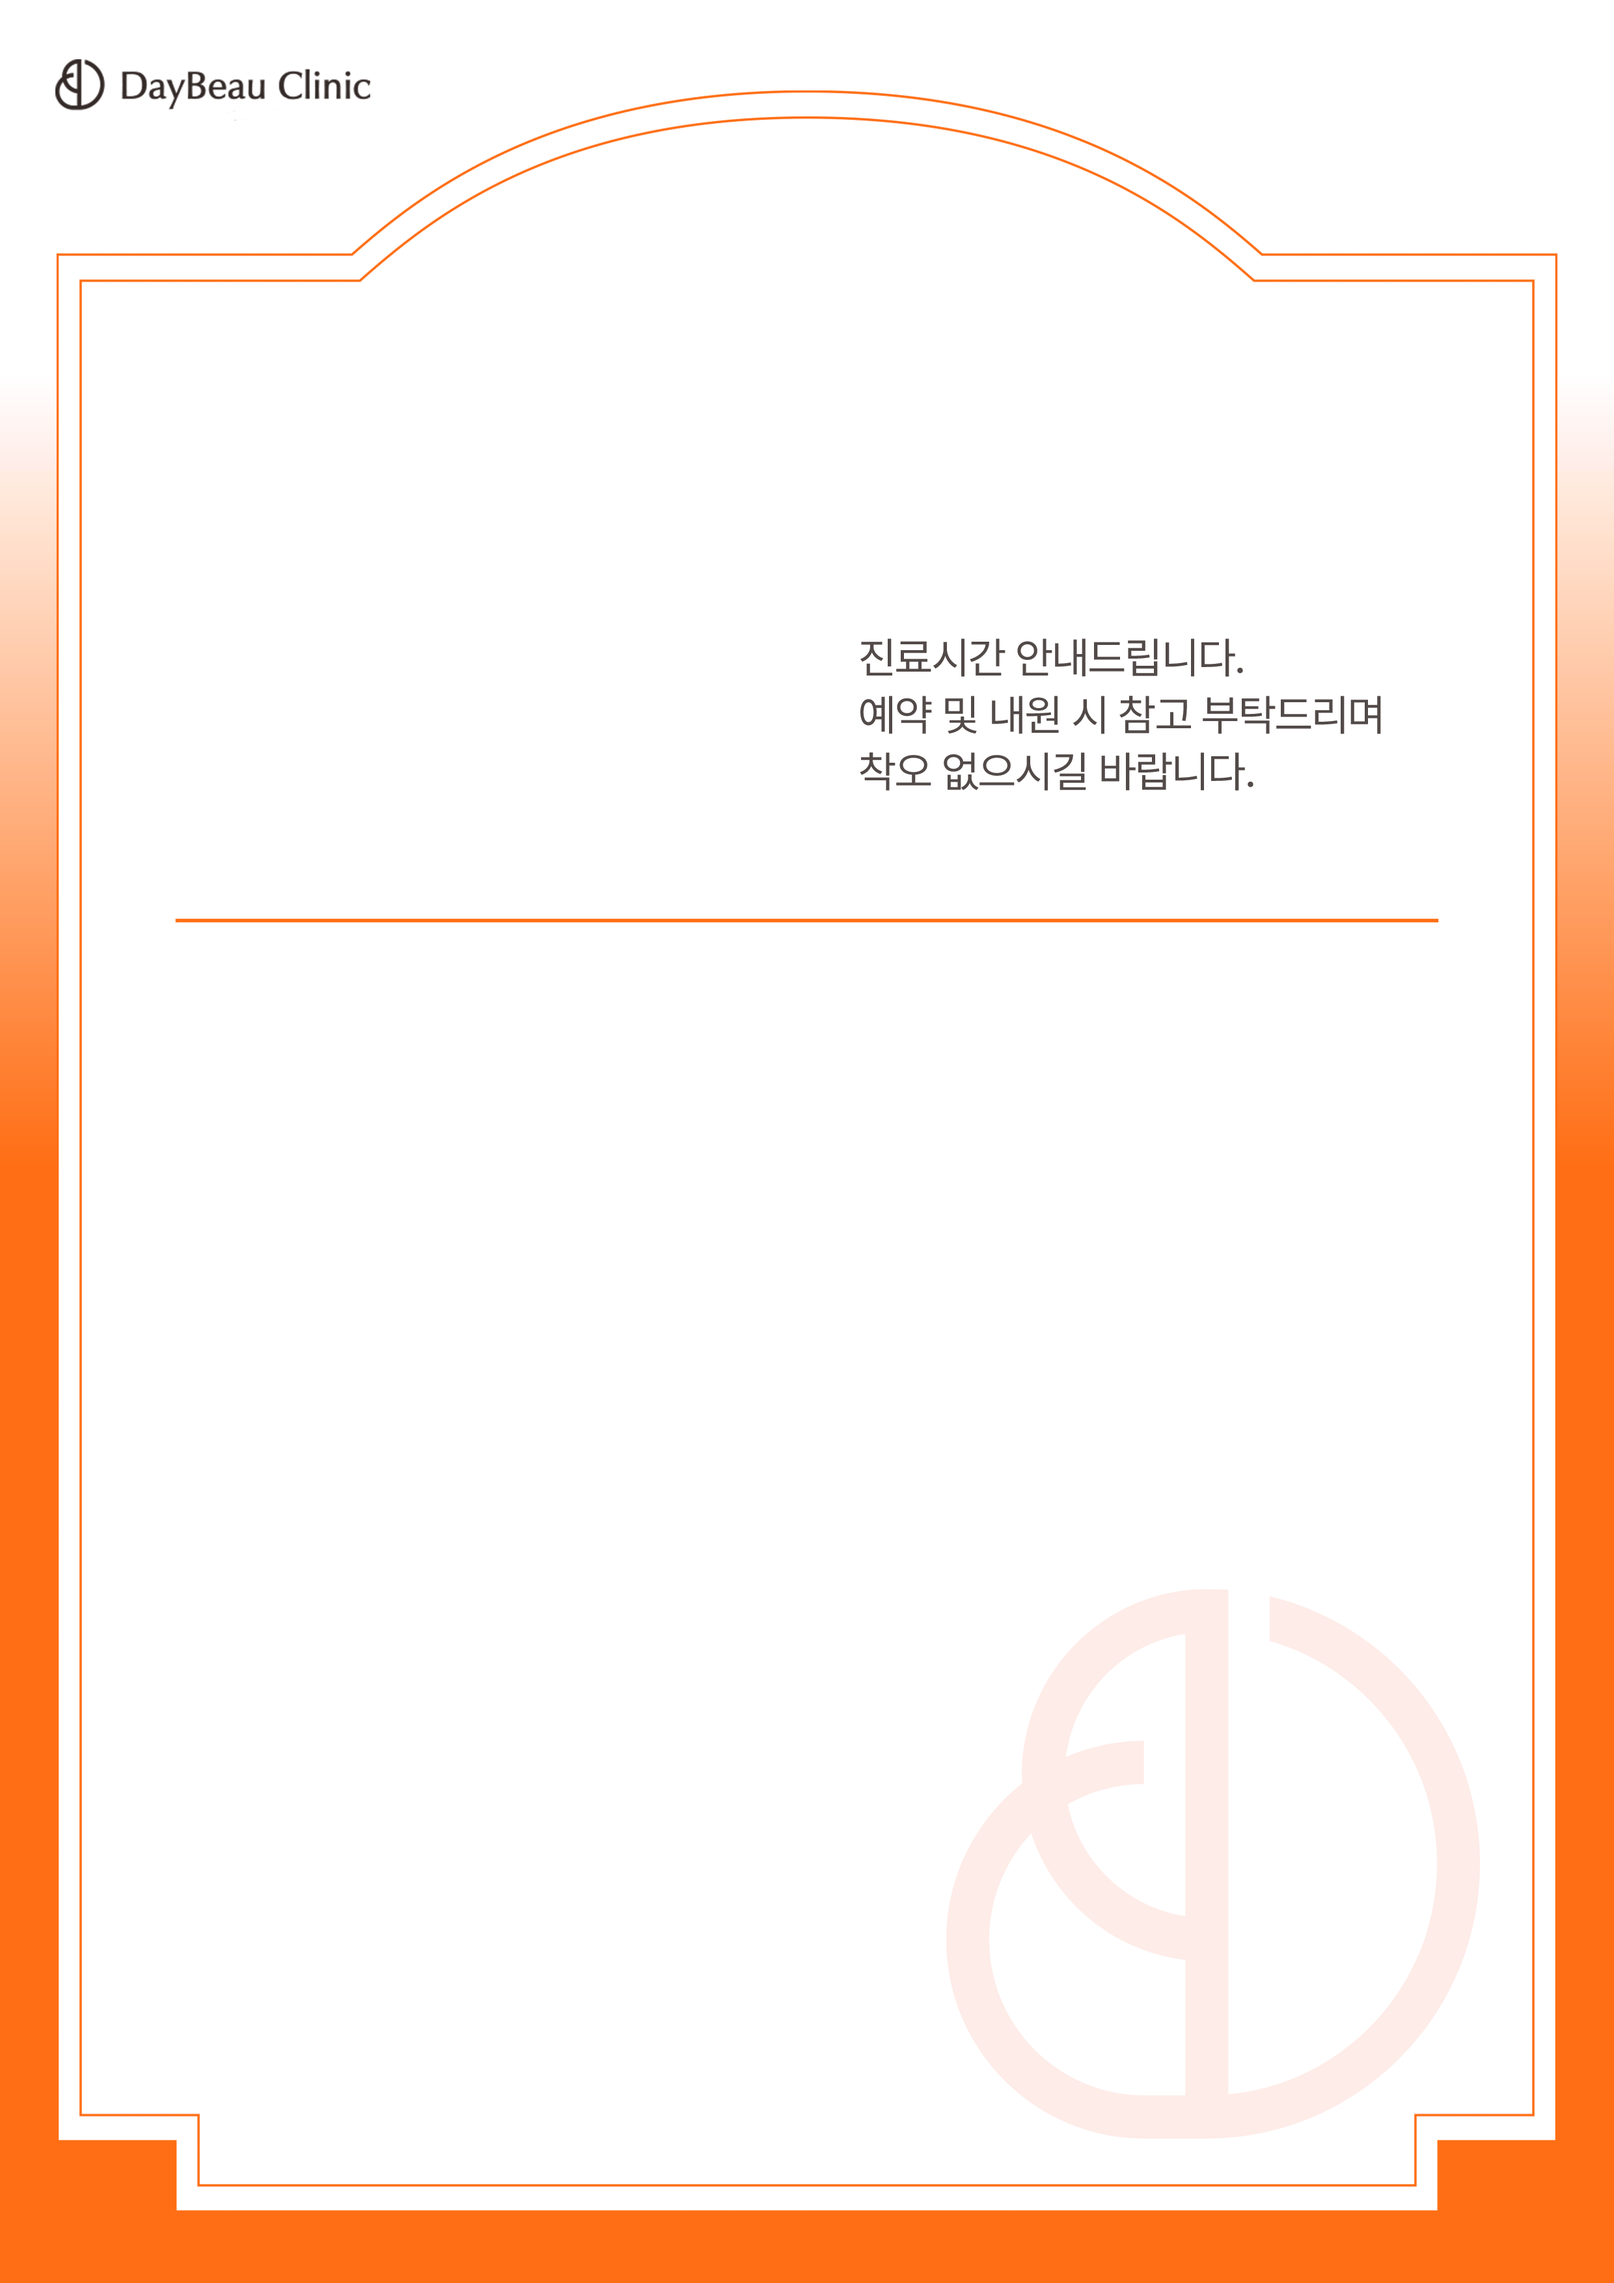
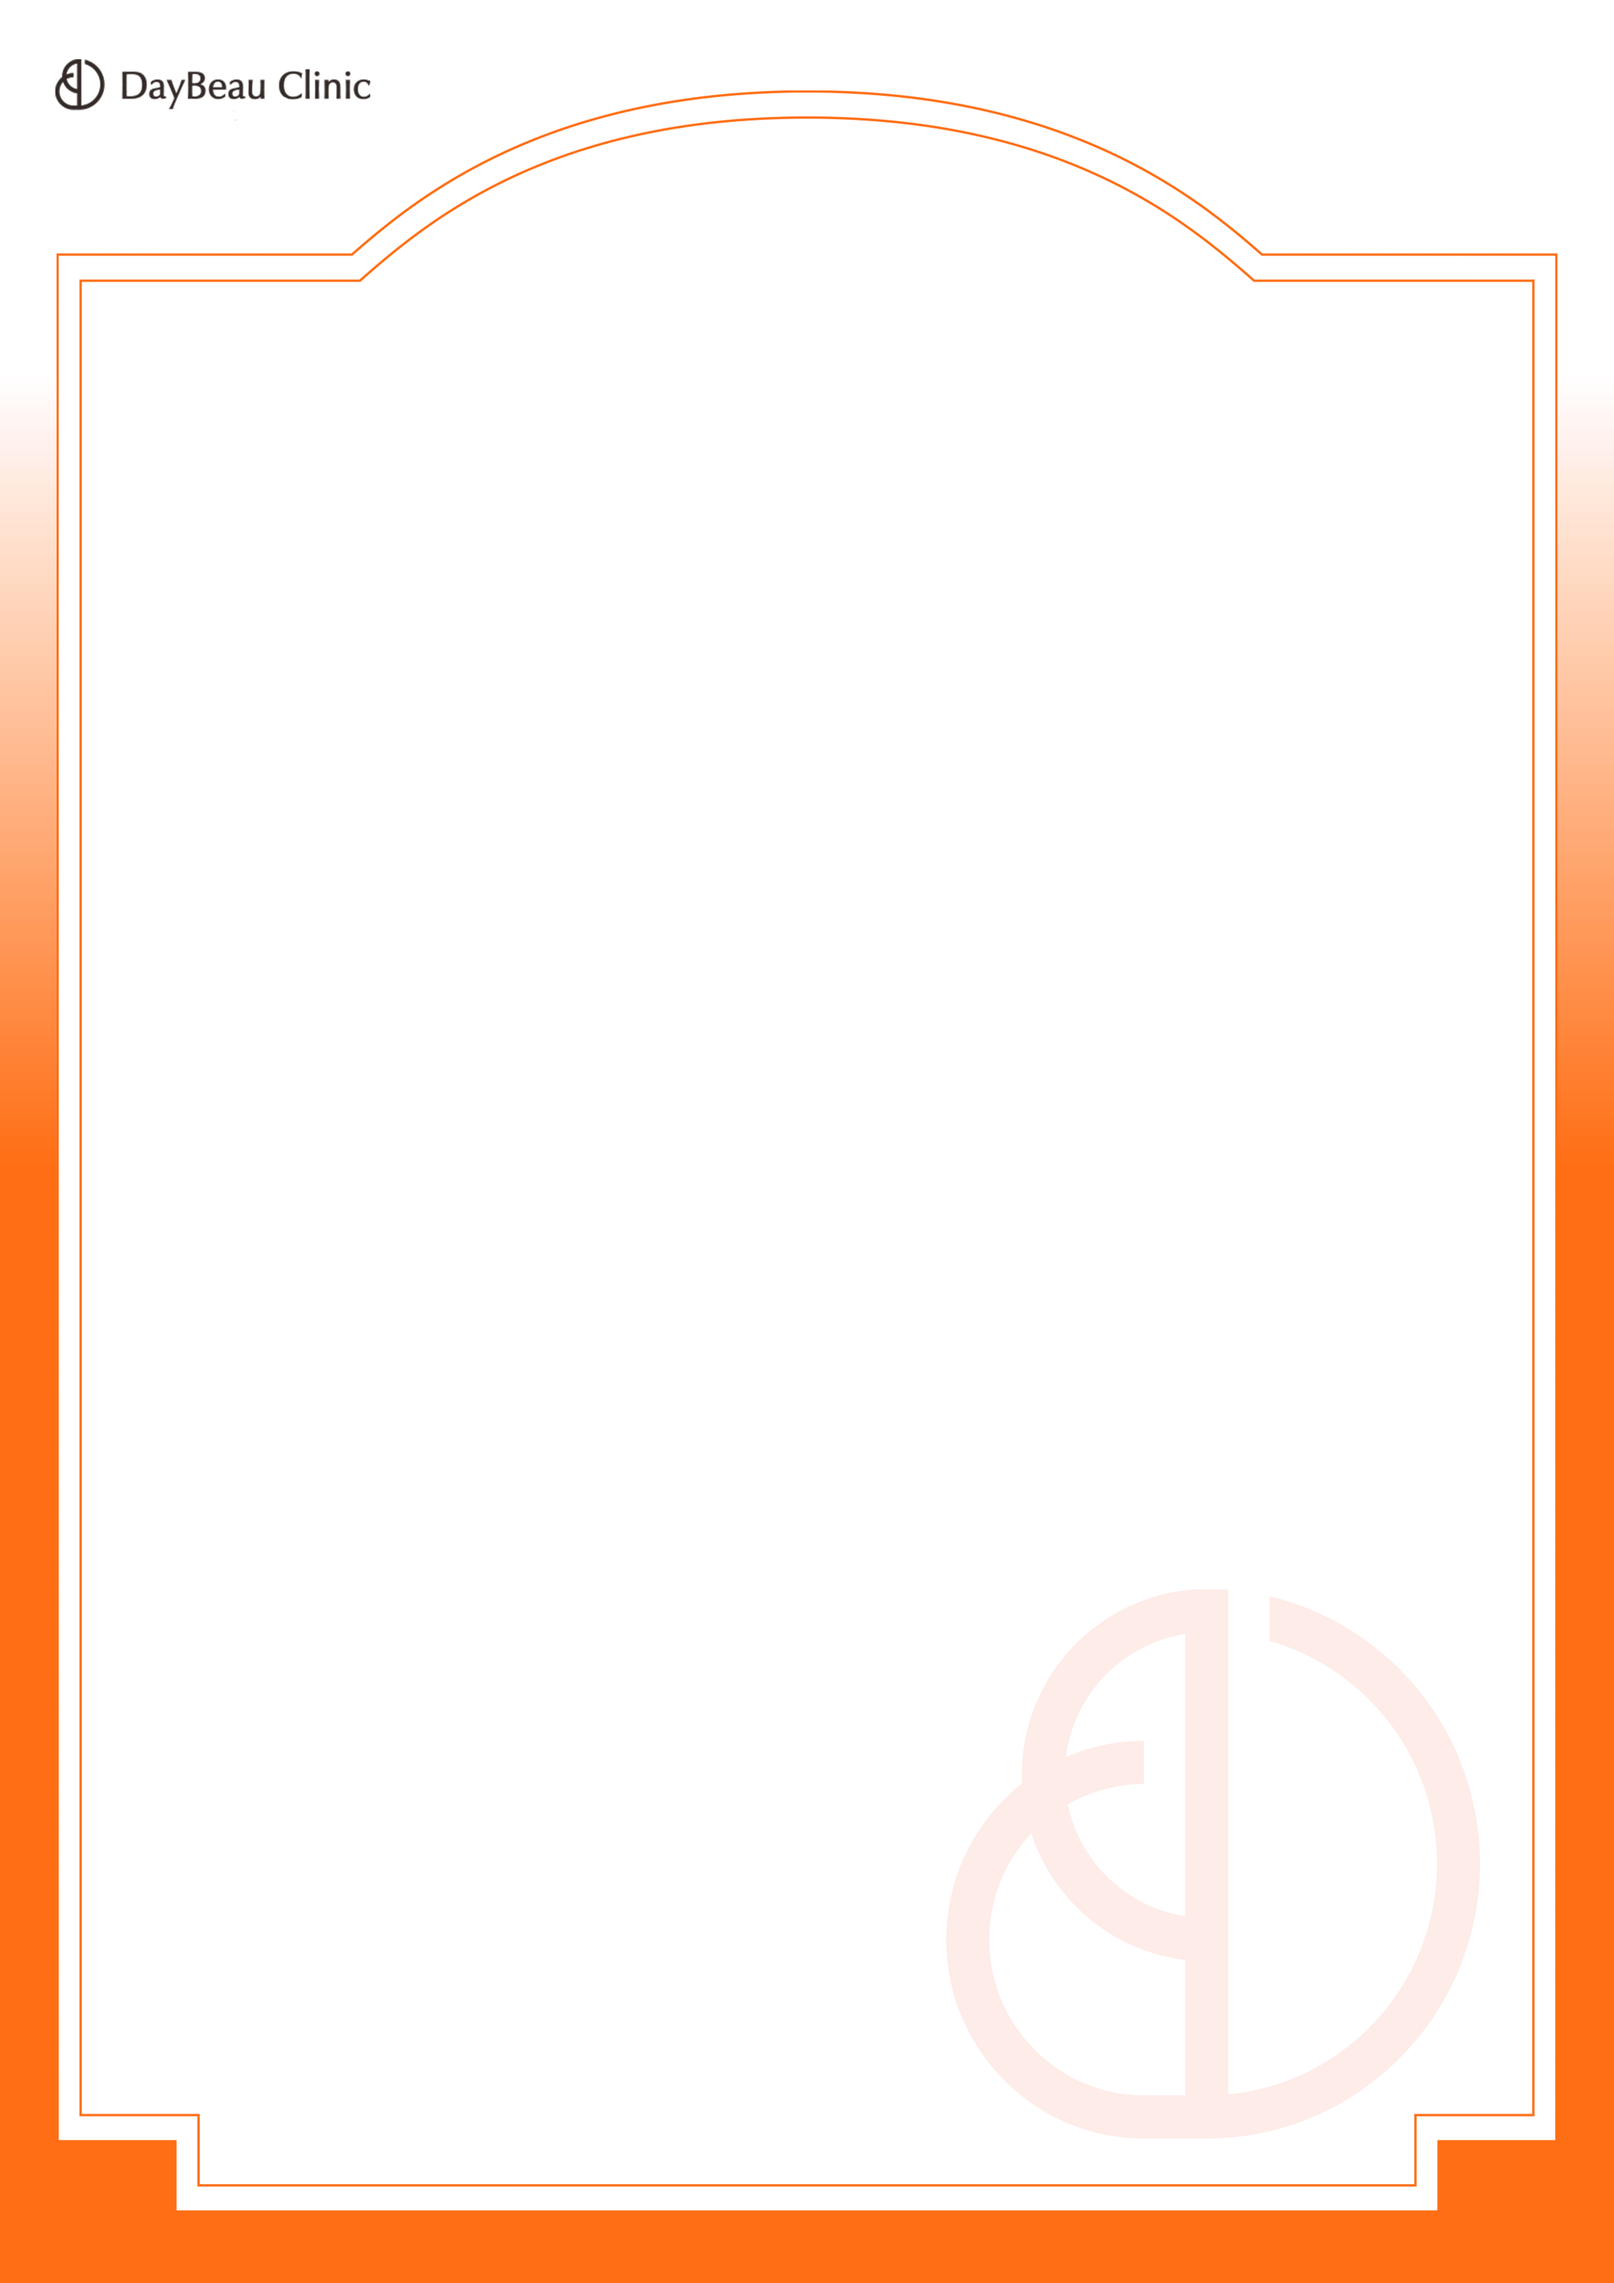
섹션1(타이틀+월+자막+구분선) 통째 이동 + 원 크기/상태 pill 개선
- 배경(a4/insta/mo)에 baked돼 있던 상단 자막·구분선을 지우고
  동적 오버레이로 재구성 → ① 타이틀 방향키로 자막·구분선까지 함께 이동
- 날짜 크기 배율 시 원(강조 도형)은 50%만 반영해 과도하게 커지지 않도록
- 달력 상태 pill(단축 진료/정상 진료)이 한 줄로 표시되도록(줄바꿈 제거)
- (PC는 레이아웃 특성상 자막·세로선 baked 유지, 타이틀 텍스트만 이동)

Claude-Session: https://claude.ai/code/session_01KZF4ihkVbwkEzVchkr5nFz

Changed region(s): [[0.5278, 0.2796, 0.7762, 0.3418]]

diff --git a/src/components/notice/NoticePoster.tsx b/src/components/notice/NoticePoster.tsx
@@ -47,7 +47,15 @@ type VariantSpec = {
   month: { l: number; t: number; font: number };
   cal: { l: number; t: number; w: number; wdFont: number; dateFont: number; circle: number; rowGap: number; labelFont: number };
   bottom: Rect & { pillFont: number; dateFont: number; timeFont: number };
+  // 섹션1 오버레이(자막/구분선) — 포트레이트(a4/insta/mo)만. 없으면 렌더 안 함.
+  subtitle?: { right: number; top: number; font: number; lineHeight: number; align: "right" | "left" };
+  divider?: { x0: number; x1: number; y: number; thick: number };
 };
+
+// 상단 자막(고정 문구)
+const SUBTITLE_LINES = ["진료시간 안내드립니다.", "예약 및 내원 시 참고 부탁드리며", "착오 없으시길 바랍니다."];
+const SUBTITLE_COLOR = "#564E4C";
+const DIVIDER_COLOR = "#FF6E14";
 
 const SPECS: Record<OutputSize, VariantSpec> = {
   a4: {
@@ -62,6 +70,8 @@ const SPECS: Record<OutputSize, VariantSpec> = {
     month: { l: 0.535, t: 0.223, font: 0.031 },
     cal: { l: 0.108, t: 0.44, w: 0.776, wdFont: 0.016, dateFont: 0.036, circle: 0.1, rowGap: 0.015, labelFont: 0.0135 },
     bottom: { l: 0.108, t: 0.75, w: 0.784, h: 0.16, pillFont: 0.014, dateFont: 0.015, timeFont: 0.013 },
+    subtitle: { right: 0.855, top: 0.272, font: 0.0162, lineHeight: 1.55, align: "right" },
+    divider: { x0: 0.108, x1: 0.892, y: 0.4025, thick: 0.0014 },
   },
   insta: {
     bg: bgInsta,
@@ -74,6 +84,8 @@ const SPECS: Record<OutputSize, VariantSpec> = {
     month: { l: 0.612, t: 0.262, font: 0.033 },
     cal: { l: 0.12, t: 0.505, w: 0.76, wdFont: 0.018, dateFont: 0.038, circle: 0.094, rowGap: 0.016, labelFont: 0.014 },
     bottom: { l: 0.121, t: 0.77, w: 0.758, h: 0.14, pillFont: 0.015, dateFont: 0.016, timeFont: 0.014 },
+    subtitle: { right: 0.858, top: 0.318, font: 0.0195, lineHeight: 1.55, align: "right" },
+    divider: { x0: 0.124, x1: 0.876, y: 0.4696, thick: 0.0015 },
   },
   mo: {
     bg: bgMo,
@@ -87,6 +99,8 @@ const SPECS: Record<OutputSize, VariantSpec> = {
     month: { l: 0.52, t: 0.243, font: 0.028 },
     cal: { l: 0.11, t: 0.465, w: 0.78, wdFont: 0.024, dateFont: 0.048, circle: 0.11, rowGap: 0.018, labelFont: 0.017 },
     bottom: { l: 0.1, t: 0.73, w: 0.8, h: 0.15, pillFont: 0.016, dateFont: 0.017, timeFont: 0.015 },
+    subtitle: { right: 0.856, top: 0.286, font: 0.021, lineHeight: 1.5, align: "right" },
+    divider: { x0: 0.10, x1: 0.90, y: 0.4185, thick: 0.0022 },
   },
   pc: {
     bg: bgPc,
@@ -182,7 +196,9 @@ export default function NoticePoster({ variant, state }: { variant: OutputSize; 
   const nRows = Math.max(1, rows.length);
   const labelSpace = hideLabels ? 0 : labelH;
   const dScale = state.dateScale ?? 1; // 날짜 크기 사용자 배율
-  const baseCircle = spec.cal.circle * W * dScale;
+  // 원(강조 도형)은 배율의 50%만 반영해 과도하게 커지지 않도록, 숫자는 배율 전체 반영.
+  const circleScale = 1 + (dScale - 1) * 0.5;
+  const baseCircle = spec.cal.circle * W * circleScale;
   const idealRowH = baseCircle * 1.05;
   const ROW_PITCH = 1.26; // 행높이 대비 간격 포함 피치 (작을수록 주차 간격 좁음)
   const perRow = (rh: number) => rh * ROW_PITCH + labelSpace; // 행+간격+라벨
@@ -243,6 +259,20 @@ export default function NoticePoster({ variant, state }: { variant: OutputSize; 
         <span style={{ fontSize: px(spec.month.font), fontWeight: 500 }}>진료 안내</span>
       </div>
 
+      {/* 상단 자막 (섹션1, titleDY로 함께 이동) */}
+      {spec.subtitle && (
+        <div style={{ position: "absolute", left: 0, top: spec.subtitle.top * H + titleDY, width: spec.subtitle.right * W, textAlign: spec.subtitle.align, fontSize: px(spec.subtitle.font), lineHeight: spec.subtitle.lineHeight, color: SUBTITLE_COLOR, fontWeight: 400 }}>
+          {SUBTITLE_LINES.map((ln, i) => (
+            <div key={i}>{ln}</div>
+          ))}
+        </div>
+      )}
+
+      {/* 구분선 (섹션1, titleDY로 함께 이동) */}
+      {spec.divider && (
+        <div style={{ position: "absolute", left: spec.divider.x0 * W, top: spec.divider.y * H + titleDY, width: (spec.divider.x1 - spec.divider.x0) * W, height: Math.max(1, spec.divider.thick * H), background: DIVIDER_COLOR }} />
+      )}
+
       {/* 달력 */}
       <div style={{ position: "absolute", left: spec.cal.l * W, top: spec.cal.t * H + calTopOffset + calDY, width: spec.cal.w * W }}>
         {/* 요일 헤더 (7:일~토 / 5:월~금) */}
@@ -286,7 +316,7 @@ export default function NoticePoster({ variant, state }: { variant: OutputSize; 
                   const cx = ((run.start + run.end) / 2 + 0.5) * cellW;
                   return (
                     <div key={`l${i}`} style={{ position: "absolute", left: cx, top: dateRowH + px(0.004), transform: "translateX(-50%)" }}>
-                      {statusPill(run.status, labelFontPx, variant === "mo")}
+                      {statusPill(run.status, labelFontPx, false)}
                     </div>
                   );
                 })}
